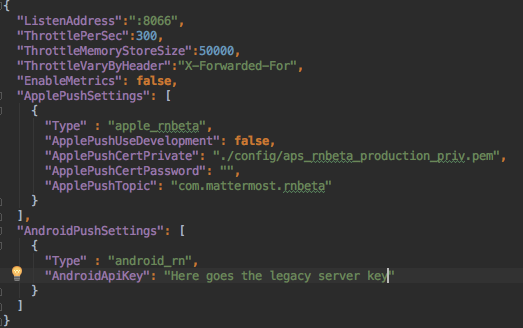
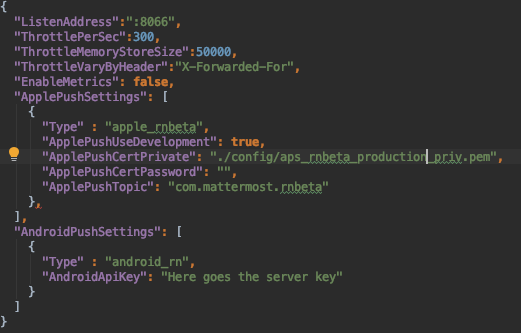
Update push proxy instructions

Changed region(s): [[0.0, 0.0, 0.9827, 0.9451], [0.0, 0.9451, 0.0307, 1.0], [0.0, 0.4268, 0.0307, 0.4878]]

diff --git a/site/content/contribute/mobile/build-your-own.md b/site/content/contribute/mobile/build-your-own.md
@@ -189,8 +189,8 @@ Now that the app can receive push notifications, we need to make sure that the P
 ![image](/img/firebase_settings.png)
 ![image](/img/firebase_cloud_messaging.png)
 
-- Look for the value of the **Legacy Server Key** and copy it.
-![image](/img/farebase_server_key.png)
+- Look for the value of the **Server Key** and copy it.
+![image](/img/firebase_server_key.png)
 
 - Open the **mattermost-push-proxy.json** file in the `mattermost-push-proxy/config` directory and paste the value for the "AndroidApiKey" setting
 ![image](/img/proxy-config.png)
